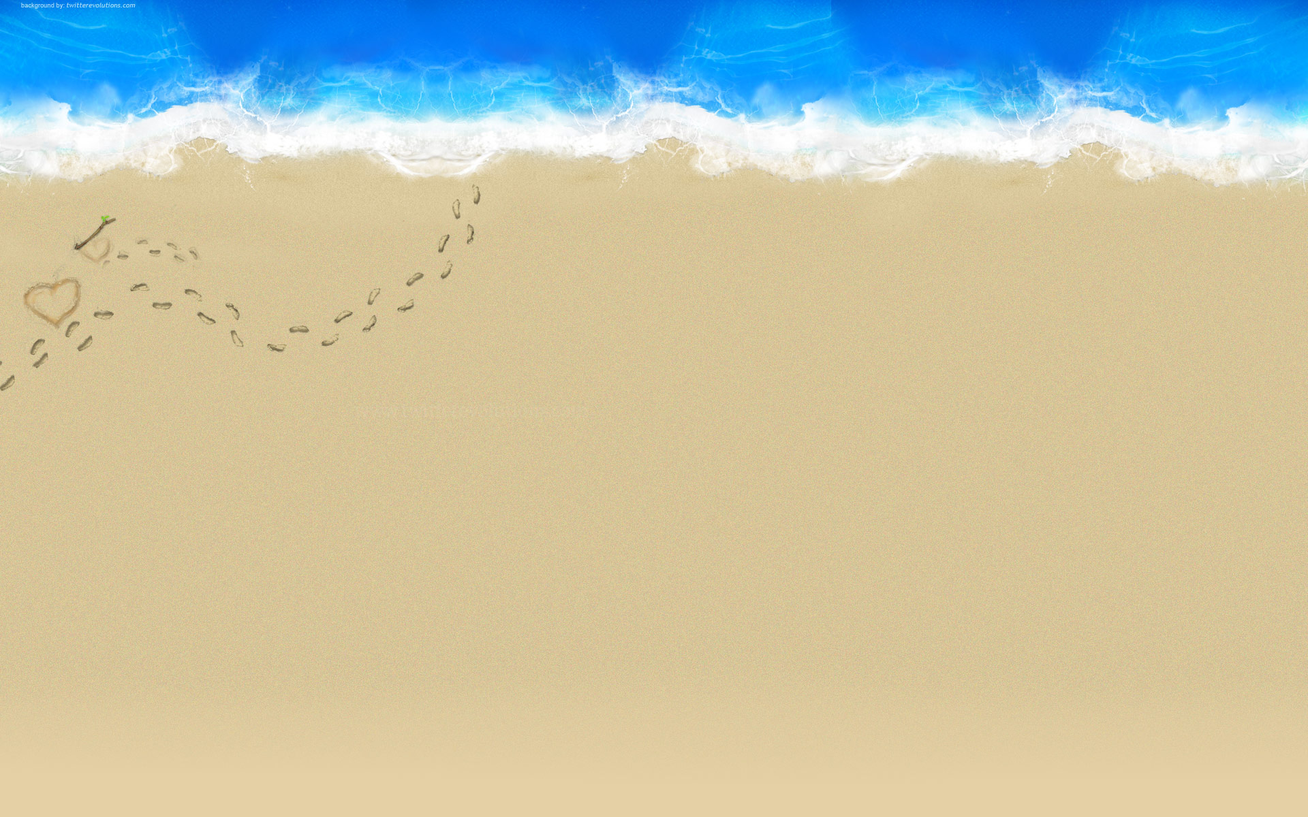
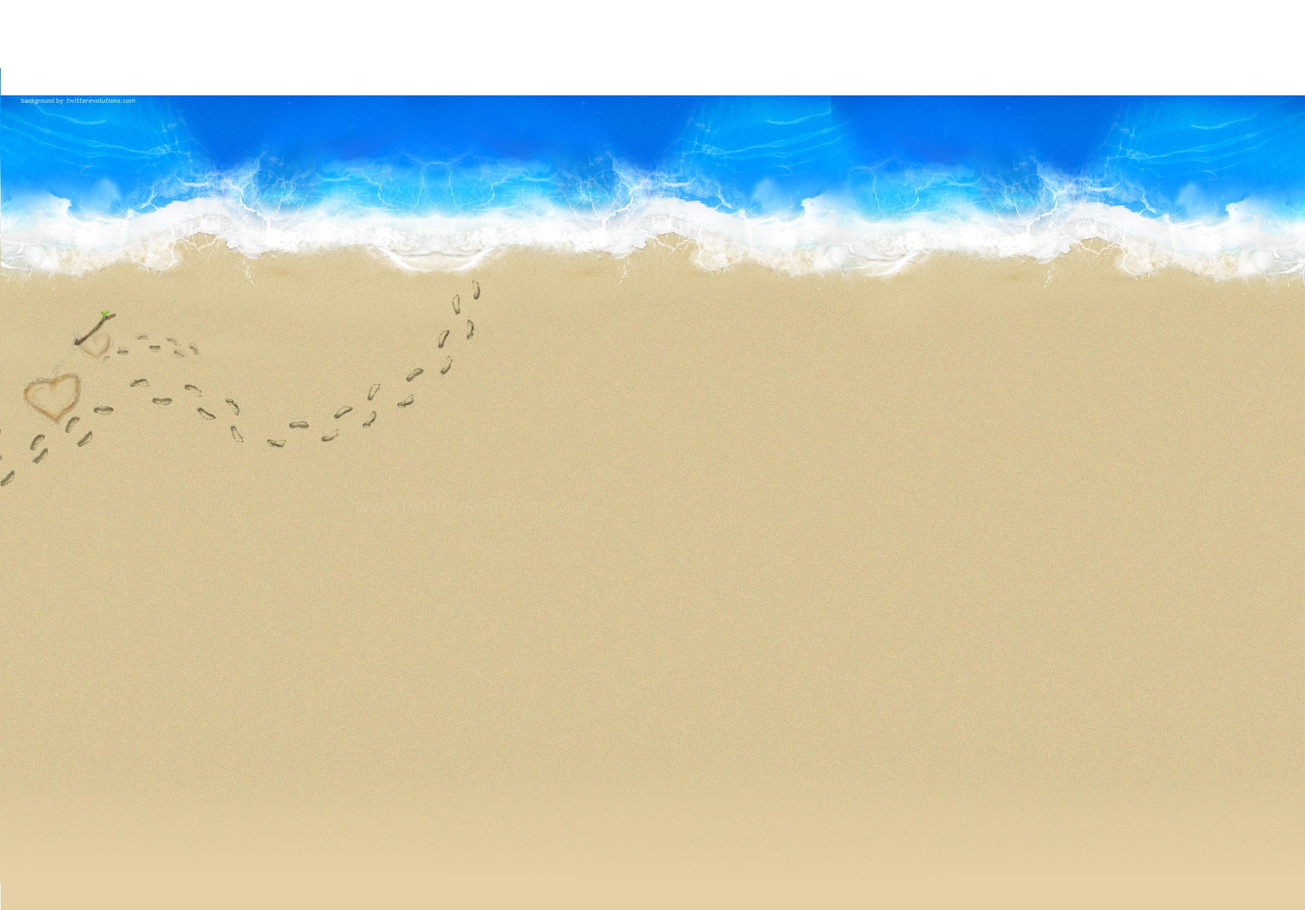
added background image

diff --git a/public/css/cool.css b/public/css/cool.css
@@ -34,14 +34,14 @@ dt.rem {
 }
 
 dd.remem input {
-    width: 15px;
-    height: 40px;
-    padding: 0;
-    margin:0;
-    vertical-align: bottom;
-    position: relative;
-    top: -37px;
-    *overflow: hidden;
+  width: 15px;
+  height: 40px;
+  padding: 0;
+  margin:0;
+  vertical-align: bottom;
+  position: relative;
+  top: -37px;
+  *overflow: hidden;
 }
 
 div.avatar img {
@@ -50,9 +50,10 @@ div.avatar img {
 }
 
 body {
-  background: url('/img/san.jpg') no-repeat center center fixed; 
+  background: url('/img/sea1.jpg') no-repeat center center fixed; 
   -webkit-background-size: cover;
   -moz-background-size: cover;
   -o-background-size: cover;
-  background-size: cover; 
+  background-size: cover;
+  background-attachment:fixed;
 }
